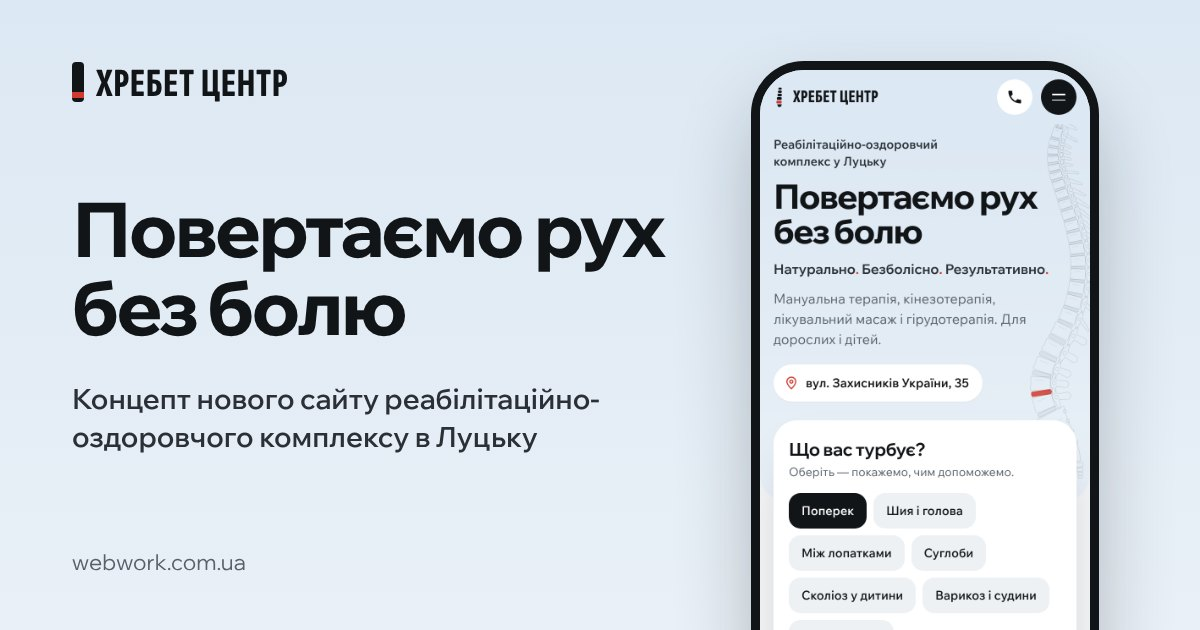
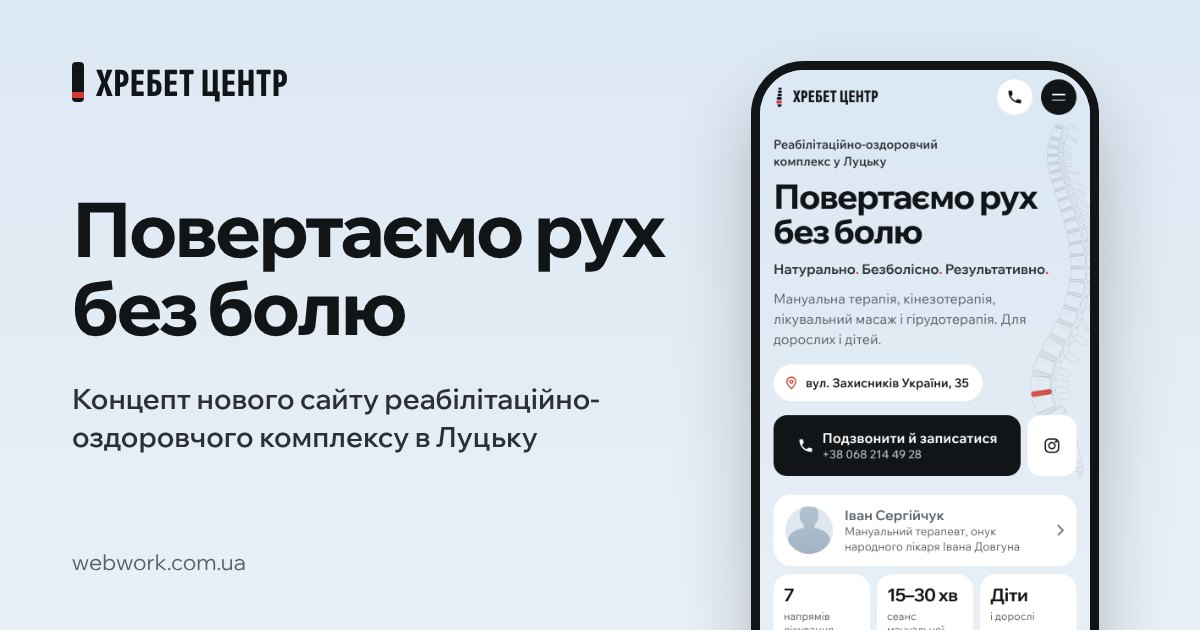
Хребет Центр concept: lighter hero, contraindications as pop-up sheets
Removes the 'Що вас турбує?' widget (call + Instagram buttons in the hero
instead); contraindications and urgent signs now open as sheets on tap.

Claude-Session: https://claude.ai/code/session_01P6YqCN5K12vF97Sc8Z6y1j

Changed region(s): [[0.6167, 0.6333, 0.8942, 1.0]]

diff --git a/concept-hrebet-center/index.html b/concept-hrebet-center/index.html
@@ -119,7 +119,7 @@ h3{font-weight:650}
 .mmenu .mmenu-tel{border:0;padding-top:4px;font-size:22px}
 
 /* hero */
-.hero{position:relative;overflow:hidden;background:linear-gradient(180deg,var(--sky) 0,var(--sky-2) 100%);padding:14px 0 118px;border-radius:0 0 32px 32px}
+.hero{position:relative;overflow:hidden;background:linear-gradient(180deg,var(--sky) 0,var(--sky-2) 100%);padding:14px 0 22px;border-radius:0 0 32px 32px}
 .hero-spine{position:absolute;right:-18px;top:-8px;height:430px;pointer-events:none}
 .hero-spine .spine{height:100%;width:auto;display:block}
 .hero-spine .spine :is(.body,.arch,.tp){fill:none;stroke:rgba(18,21,24,.13);stroke-width:1.1}
@@ -163,7 +163,10 @@ h3{font-weight:650}
 .alt-link{display:block;text-align:center;margin-top:2px;padding:14px 0;font:600 14.5px/1 var(--text);color:var(--ink-2)}
 
 /* doctor strip + facts */
-.after{margin-top:16px}
+.after{margin-top:22px}
+.hero-cta{display:flex;gap:8px;margin-top:16px}
+.hero-cta .call{flex:1;margin:0}
+.igbtn{flex:none;display:grid;place-items:center;width:58px;border-radius:16px;background:#fff;color:var(--ink);text-decoration:none}
 .docstrip{display:flex;align-items:center;gap:14px;padding:14px;border-radius:20px;background:var(--card);text-decoration:none}
 .ava{flex:none;width:56px;height:56px;border-radius:50%;overflow:hidden}
 .portrait-svg{width:100%;height:100%;display:block;--ph-bg:#dfe7ef;--ph-a:#b4c3d1;--ph-b:#a2b4c5}
@@ -246,6 +249,29 @@ h3{font-weight:650}
 .box.urgent li{border-top-color:rgba(143,32,24,.12)}
 .box .foot{margin:0;padding:12px 0 12px;font-size:13.5px;color:var(--muted);border-top:1px solid var(--line)}
 
+.opener{display:flex;align-items:center;gap:14px;width:100%;text-align:left;border:0;cursor:pointer;background:var(--card);border-radius:var(--r);padding:16px;font:inherit;color:var(--ink);transition:transform .15s}
+.opener:active{transform:scale(.98)}
+.o-ic{flex:none;display:grid;place-items:center;width:44px;height:44px;border-radius:14px;background:var(--chip);color:var(--ink-2)}
+.o-ic .si{width:20px;height:20px}
+.o-tx b{display:block;font:650 16px/1.3 var(--disp)}
+.o-tx span{display:block;font-size:13.5px;color:var(--muted);margin-top:2px}
+.o-go{margin-left:auto;flex:none;display:grid;place-items:center;width:34px;height:34px;border-radius:50%;background:var(--chip)}
+.o-go .si{width:18px;height:18px}
+.opener.red .o-ic{background:var(--red-soft);color:var(--red)}
+.sheet{border:0;padding:0;margin:auto auto 0;width:100%;max-width:560px;max-height:86vh;border-radius:26px 26px 0 0;background:var(--card);color:var(--ink);box-shadow:0 -20px 60px rgba(18,21,24,.25)}
+.sheet[open]{animation:up .28s cubic-bezier(.2,.8,.2,1)}
+.sheet::backdrop{background:rgba(18,21,24,.45);backdrop-filter:blur(2px)}
+@keyframes up{from{transform:translateY(40px);opacity:0}to{transform:none;opacity:1}}
+.sh-head{position:sticky;top:0;display:flex;align-items:center;gap:12px;padding:20px 18px 14px;background:var(--card)}
+.sh-head h3{font-size:18px;line-height:1.25;flex:1}
+.sh-close{flex:none;display:grid;place-items:center;width:40px;height:40px;border-radius:50%;border:0;background:var(--chip);cursor:pointer}
+.sh-close .si{width:18px;height:18px}
+.sh-list{list-style:none;margin:0;padding:0 18px;display:grid;gap:8px}
+.sh-list li{padding:13px 14px;border-radius:14px;background:var(--chip);font-size:15.5px;line-height:1.35}
+.sheet.red .o-ic{background:var(--red-soft);color:var(--red)}
+.sheet.red .sh-list li{background:var(--red-soft);color:var(--red-ink)}
+.sh-foot{margin:14px 18px 22px;font-size:14px;color:var(--muted)}
+.sheet .call{margin:16px 18px calc(18px + env(safe-area-inset-bottom))}
 .tip{background:var(--card);border-radius:var(--r);padding:16px 18px}
 .tip h3{font-size:16.5px;margin-bottom:6px}
 .tip p{margin:0;font-size:15px;line-height:1.5;color:var(--ink-2)}
@@ -298,6 +324,7 @@ footer .wrap{display:flex;flex-direction:column;align-items:flex-start;gap:10px}
   .chip{padding:11px 12px;font-size:14px}
 }
 /* ---------- desktop ---------- */
+@media (min-width:700px){.sheet{margin:auto;border-radius:26px}}
 @media (min-width:960px){
   body{font-size:17px}
   .wrap{padding:0 40px}
@@ -307,17 +334,16 @@ footer .wrap{display:flex;flex-direction:column;align-items:flex-start;gap:10px}
   .nav{display:flex;gap:22px;margin-left:auto;font:550 15px/1 var(--text);color:var(--ink-2)}
   .nav a{text-decoration:none}
   .top .tel{display:block;font:650 16px/1 var(--text);text-decoration:none}
-  .hero{padding:44px 0 230px;border-radius:0 0 48px 48px}
+  .hero{padding:44px 0 56px;border-radius:0 0 48px 48px}
   .hero-spine{height:640px;right:auto;left:44%;top:-14px}
   .hero .wrap>div{max-width:520px}
   .kind{max-width:none;font-size:16px}
   .hero h1{font-size:68px;max-width:560px}
   .slogan{font-size:20px;margin-top:20px}
   .sub{font-size:18.5px;margin:14px 0 24px}
-  .triage{margin-top:-600px}
-  .triage .wrap{display:grid;grid-template-columns:1fr 520px;gap:60px;align-items:end}
-  .tw{grid-column:2;grid-row:1;padding:28px 26px 24px}
-  .after{grid-column:1;grid-row:1;margin:0;max-width:520px}
+  .hero .wrap{display:grid;grid-template-columns:1fr 460px;gap:60px;align-items:end}
+  .after{margin:0}
+  .hero-cta{max-width:440px}
   .trust b{font-size:28px}
   .secnav{margin-top:40px}
   .secnav .wrap{justify-content:center}
@@ -388,115 +414,12 @@ footer .wrap{display:flex;flex-direction:column;align-items:flex-start;gap:10px}
       <a class="addr" href="https://www.google.com/maps/search/?api=1&query=%D0%9B%D1%83%D1%86%D1%8C%D0%BA%2C+%D0%B2%D1%83%D0%BB%D0%B8%D1%86%D1%8F+%D0%97%D0%B0%D1%85%D0%B8%D1%81%D0%BD%D0%B8%D0%BA%D1%96%D0%B2+%D0%A3%D0%BA%D1%80%D0%B0%D1%97%D0%BD%D0%B8%2C+35" target="_blank" rel="noopener"><svg class="si" viewBox="0 0 24 24" aria-hidden="true" fill="none" stroke="currentColor" stroke-width="1.8" stroke-linecap="round" stroke-linejoin="round">
 <path d="M12 21s7-6.2 7-11.2A7 7 0 0 0 5 9.8C5 14.8 12 21 12 21z"/><circle cx="12" cy="9.8" r="2.4"/>
 </svg>вул. Захисників України, 35</a>
-    </div>
-  </div>
-</section>
-
-<section class="triage" aria-label="Що вас турбує">
-  <div class="wrap">
-    <div class="tw">
-      <h2>Що вас турбує?</h2>
-      <p class="hint">Оберіть — покажемо, чим допоможемо.</p>
-      <div class="chips" role="tablist" aria-label="Що турбує">
-<button type="button" class="chip" role="tab" id="tab-poperek" aria-controls="pan-poperek" aria-selected="true">Поперек</button><button type="button" class="chip" role="tab" id="tab-shyia" aria-controls="pan-shyia" aria-selected="false">Шия і голова</button><button type="button" class="chip" role="tab" id="tab-lopatky" aria-controls="pan-lopatky" aria-selected="false">Між лопатками</button><button type="button" class="chip" role="tab" id="tab-suhloby" aria-controls="pan-suhloby" aria-selected="false">Суглоби</button><button type="button" class="chip" role="tab" id="tab-skolioz" aria-controls="pan-skolioz" aria-selected="false">Сколіоз у дитини</button><button type="button" class="chip" role="tab" id="tab-varykoz" aria-controls="pan-varykoz" aria-selected="false">Варикоз і судини</button><button type="button" class="chip" role="tab" id="tab-travma" aria-controls="pan-travma" aria-selected="false">Після травми</button>      </div>
-      <div class="panel" role="tabpanel" id="pan-poperek" aria-labelledby="tab-poperek">
-        <p class="lead">Біль після сидіння, «прострел» при нахилі, грижі й протрузії, біль, що віддає в ногу.</p>
-        <p class="helps-t">Що допомагає</p>
-        <ul class="mlist"><li><svg class="si" viewBox="0 0 24 24" aria-hidden="true" fill="none" stroke="currentColor" stroke-width="1.8" stroke-linecap="round" stroke-linejoin="round">
-<path d="M5 12.5l4.2 4.2L19 7"/>
-</svg><div><b>Мануальна терапія</b><span>знімає м'язовий спазм і повертає рухливість хребцям</span></div></li><li><svg class="si" viewBox="0 0 24 24" aria-hidden="true" fill="none" stroke="currentColor" stroke-width="1.8" stroke-linecap="round" stroke-linejoin="round">
-<path d="M5 12.5l4.2 4.2L19 7"/>
-</svg><div><b>Кінезотерапія і ЛФК</b><span>зміцнюють м'язовий корсет, щоб біль не повертався</span></div></li><li><svg class="si" viewBox="0 0 24 24" aria-hidden="true" fill="none" stroke="currentColor" stroke-width="1.8" stroke-linecap="round" stroke-linejoin="round">
-<path d="M5 12.5l4.2 4.2L19 7"/>
-</svg><div><b>Лікувальний масаж</b><span>розслабляє перенапружені м'язи попереку</span></div></li></ul>
-        <p class="note warn"><svg class="si" viewBox="0 0 24 24" aria-hidden="true" fill="none" stroke="currentColor" stroke-width="1.8" stroke-linecap="round" stroke-linejoin="round">
-<path d="M12 3.5l9 16H3z"/><path d="M12 10v4.2M12 17.2v.3"/>
-</svg><span>Біль віддає в ногу, німіє чи слабшає нога? Не відкладайте візит: на ранньому етапі лікування дає кращий результат.</span></p>
+      <div class="hero-cta">
+        <a class="call" href="tel:+380682144928"><svg class="ic" viewBox="0 0 24 24" aria-hidden="true"><path fill="currentColor" d="M6.6 10.8a15.1 15.1 0 0 0 6.6 6.6l2.2-2.2c.3-.3.7-.4 1-.2 1.1.4 2.3.6 3.6.6.6 0 1 .4 1 1V20c0 .6-.4 1-1 1A17 17 0 0 1 3 4c0-.6.4-1 1-1h3.5c.6 0 1 .4 1 1 0 1.3.2 2.5.6 3.6.1.3 0 .7-.2 1z"/></svg><span>Подзвонити й записатися<small>+38 068 214 49 28</small></span></a>
+        <a class="igbtn" href="https://www.instagram.com/khrebet_center_lutsk/" target="_blank" rel="noopener" aria-label="Написати в Instagram"><svg class="si" viewBox="0 0 24 24" aria-hidden="true" fill="none" stroke="currentColor" stroke-width="1.8" stroke-linecap="round" stroke-linejoin="round">
+<rect x="3.5" y="3.5" width="17" height="17" rx="5"/><circle cx="12" cy="12" r="4"/><circle cx="17.2" cy="6.8" r=".6" fill="currentColor"/>
+</svg></a>
       </div>
-      <div class="panel" role="tabpanel" id="pan-shyia" aria-labelledby="tab-shyia" hidden>
-        <p class="lead">Головний біль, скутість шиї, біль у потилиці. Часто причина в м'язах шиї, які тиснуть на нерви.</p>
-        <p class="helps-t">Що допомагає</p>
-        <ul class="mlist"><li><svg class="si" viewBox="0 0 24 24" aria-hidden="true" fill="none" stroke="currentColor" stroke-width="1.8" stroke-linecap="round" stroke-linejoin="round">
-<path d="M5 12.5l4.2 4.2L19 7"/>
-</svg><div><b>Мануальна терапія</b><span>пропрацьовує напружені м'язи і відновлює поставу</span></div></li><li><svg class="si" viewBox="0 0 24 24" aria-hidden="true" fill="none" stroke="currentColor" stroke-width="1.8" stroke-linecap="round" stroke-linejoin="round">
-<path d="M5 12.5l4.2 4.2L19 7"/>
-</svg><div><b>Масаж</b><span>знімає напругу шиї та плечового пояса</span></div></li><li><svg class="si" viewBox="0 0 24 24" aria-hidden="true" fill="none" stroke="currentColor" stroke-width="1.8" stroke-linecap="round" stroke-linejoin="round">
-<path d="M5 12.5l4.2 4.2L19 7"/>
-</svg><div><b>Вправи на декомпресійних тренажерах</b><span>м'яко витягують хребет під наглядом лікаря</span></div></li></ul>
-        <p class="note"><svg class="si" viewBox="0 0 24 24" aria-hidden="true" fill="none" stroke="currentColor" stroke-width="1.8" stroke-linecap="round" stroke-linejoin="round">
-<path d="M5 12.5l4.2 4.2L19 7"/>
-</svg><span>Для шийного відділу в центрі є окрема корекційна методика.</span></p>
-      </div>
-      <div class="panel" role="tabpanel" id="pan-lopatky" aria-labelledby="tab-lopatky" hidden>
-        <p class="lead">Стріляючий біль між ребрами, що посилюється при русі, скутість у грудному відділі.</p>
-        <p class="helps-t">Що допомагає</p>
-        <ul class="mlist"><li><svg class="si" viewBox="0 0 24 24" aria-hidden="true" fill="none" stroke="currentColor" stroke-width="1.8" stroke-linecap="round" stroke-linejoin="round">
-<path d="M5 12.5l4.2 4.2L19 7"/>
-</svg><div><b>Мануальна терапія</b><span>знімає спазм м'язів грудного відділу</span></div></li><li><svg class="si" viewBox="0 0 24 24" aria-hidden="true" fill="none" stroke="currentColor" stroke-width="1.8" stroke-linecap="round" stroke-linejoin="round">
-<path d="M5 12.5l4.2 4.2L19 7"/>
-</svg><div><b>Масаж</b><span>розслабляє міжреберні м'язи і спину</span></div></li><li><svg class="si" viewBox="0 0 24 24" aria-hidden="true" fill="none" stroke="currentColor" stroke-width="1.8" stroke-linecap="round" stroke-linejoin="round">
-<path d="M5 12.5l4.2 4.2L19 7"/>
-</svg><div><b>ЛФК і кінезотерапія</b><span>програма вправ, щоб напади не повторювалися</span></div></li></ul>
-        <p class="note warn"><svg class="si" viewBox="0 0 24 24" aria-hidden="true" fill="none" stroke="currentColor" stroke-width="1.8" stroke-linecap="round" stroke-linejoin="round">
-<path d="M12 3.5l9 16H3z"/><path d="M12 10v4.2M12 17.2v.3"/>
-</svg><span>Міжреберна невралгія за характером відрізняється від болю в серці. Якщо є сумнів, спершу перевірте серце.</span></p>
-      </div>
-      <div class="panel" role="tabpanel" id="pan-suhloby" aria-labelledby="tab-suhloby" hidden>
-        <p class="lead">Артроз, артрит, вивихи, зокрема плеча, відновлення кульшових суглобів.</p>
-        <p class="helps-t">Що допомагає</p>
-        <ul class="mlist"><li><svg class="si" viewBox="0 0 24 24" aria-hidden="true" fill="none" stroke="currentColor" stroke-width="1.8" stroke-linecap="round" stroke-linejoin="round">
-<path d="M5 12.5l4.2 4.2L19 7"/>
-</svg><div><b>Кінезотерапія</b><span>вчить м'язи тримати суглоб і знімати з нього навантаження</span></div></li><li><svg class="si" viewBox="0 0 24 24" aria-hidden="true" fill="none" stroke="currentColor" stroke-width="1.8" stroke-linecap="round" stroke-linejoin="round">
-<path d="M5 12.5l4.2 4.2L19 7"/>
-</svg><div><b>Мануальна терапія суглобів</b><span>повертає рухливість</span></div></li><li><svg class="si" viewBox="0 0 24 24" aria-hidden="true" fill="none" stroke="currentColor" stroke-width="1.8" stroke-linecap="round" stroke-linejoin="round">
-<path d="M5 12.5l4.2 4.2L19 7"/>
-</svg><div><b>Гірудотерапія</b><span>п'явки покращують кровообіг і зменшують набряк</span></div></li></ul>
-        <p class="note"><svg class="si" viewBox="0 0 24 24" aria-hidden="true" fill="none" stroke="currentColor" stroke-width="1.8" stroke-linecap="round" stroke-linejoin="round">
-<path d="M5 12.5l4.2 4.2L19 7"/>
-</svg><span>Ранкова скутість пальців, набряк чи теплі на дотик суглоби бувають першими ознаками артриту.</span></p>
-      </div>
-      <div class="panel" role="tabpanel" id="pan-skolioz" aria-labelledby="tab-skolioz" hidden>
-        <p class="lead">Сколіоз на початку не болить, тому його легко пропустити. Найчастіше він трапляється в дошкільному і шкільному віці.</p>
-        <p class="helps-t">Що допомагає</p>
-        <ul class="mlist"><li><svg class="si" viewBox="0 0 24 24" aria-hidden="true" fill="none" stroke="currentColor" stroke-width="1.8" stroke-linecap="round" stroke-linejoin="round">
-<path d="M5 12.5l4.2 4.2L19 7"/>
-</svg><div><b>Методика Сергійчука</b><span>корекційні вправи: близько 7 хвилин щоранку</span></div></li><li><svg class="si" viewBox="0 0 24 24" aria-hidden="true" fill="none" stroke="currentColor" stroke-width="1.8" stroke-linecap="round" stroke-linejoin="round">
-<path d="M5 12.5l4.2 4.2L19 7"/>
-</svg><div><b>Масаж при сколіозі</b><span>розслабляє м'язи і вирівнює навантаження на хребет</span></div></li><li><svg class="si" viewBox="0 0 24 24" aria-hidden="true" fill="none" stroke="currentColor" stroke-width="1.8" stroke-linecap="round" stroke-linejoin="round">
-<path d="M5 12.5l4.2 4.2L19 7"/>
-</svg><div><b>ЛФК</b><span>вчить правильно сидіти, стояти й ходити</span></div></li></ul>
-        <p class="note"><svg class="si" viewBox="0 0 24 24" aria-hidden="true" fill="none" stroke="currentColor" stroke-width="1.8" stroke-linecap="round" stroke-linejoin="round">
-<path d="M5 12.5l4.2 4.2L19 7"/>
-</svg><span>Перевірте вдома: поставте дитину рівно. Плечі, ключиці й таз мають бути на одному рівні.</span></p>
-      </div>
-      <div class="panel" role="tabpanel" id="pan-varykoz" aria-labelledby="tab-varykoz" hidden>
-        <p class="lead">Важкість і набряки ніг, розширені вени, судинні проблеми.</p>
-        <p class="helps-t">Що допомагає</p>
-        <ul class="mlist"><li><svg class="si" viewBox="0 0 24 24" aria-hidden="true" fill="none" stroke="currentColor" stroke-width="1.8" stroke-linecap="round" stroke-linejoin="round">
-<path d="M5 12.5l4.2 4.2L19 7"/>
-</svg><div><b>Гірудотерапія</b><span>гірудин із слини п'явки знижує в'язкість крові</span></div></li><li><svg class="si" viewBox="0 0 24 24" aria-hidden="true" fill="none" stroke="currentColor" stroke-width="1.8" stroke-linecap="round" stroke-linejoin="round">
-<path d="M5 12.5l4.2 4.2L19 7"/>
-</svg><div><b>Ефект</b><span>менше набряків, болю і запалення в стінках вен</span></div></li></ul>
-        <p class="note"><svg class="si" viewBox="0 0 24 24" aria-hidden="true" fill="none" stroke="currentColor" stroke-width="1.8" stroke-linecap="round" stroke-linejoin="round">
-<path d="M5 12.5l4.2 4.2L19 7"/>
-</svg><span>Медичні п'явки вирощують на біофабриках і використовують один раз, після процедури їх утилізують.</span></p>
-      </div>
-      <div class="panel" role="tabpanel" id="pan-travma" aria-labelledby="tab-travma" hidden>
-        <p class="lead">Відновлення після травм, операцій і поранень, коли рух дається важко.</p>
-        <p class="helps-t">Що допомагає</p>
-        <ul class="mlist"><li><svg class="si" viewBox="0 0 24 24" aria-hidden="true" fill="none" stroke="currentColor" stroke-width="1.8" stroke-linecap="round" stroke-linejoin="round">
-<path d="M5 12.5l4.2 4.2L19 7"/>
-</svg><div><b>Фізична терапія</b><span>індивідуальна програма з фізичним терапевтом</span></div></li><li><svg class="si" viewBox="0 0 24 24" aria-hidden="true" fill="none" stroke="currentColor" stroke-width="1.8" stroke-linecap="round" stroke-linejoin="round">
-<path d="M5 12.5l4.2 4.2L19 7"/>
-</svg><div><b>ЛФК і кінезотерапія</b><span>поступово повертають силу і рухливість</span></div></li><li><svg class="si" viewBox="0 0 24 24" aria-hidden="true" fill="none" stroke="currentColor" stroke-width="1.8" stroke-linecap="round" stroke-linejoin="round">
-<path d="M5 12.5l4.2 4.2L19 7"/>
-</svg><div><b>Масаж</b><span>покращує кровообіг і тонус м'язів</span></div></li></ul>
-        <p class="note"><svg class="si" viewBox="0 0 24 24" aria-hidden="true" fill="none" stroke="currentColor" stroke-width="1.8" stroke-linecap="round" stroke-linejoin="round">
-<path d="M5 12.5l4.2 4.2L19 7"/>
-</svg><span>Програму складає фізичний терапевт під ваш стан, тому результат будується крок за кроком.</span></p>
-      </div>
-      <a class="call" href="tel:+380682144928"><svg class="ic" viewBox="0 0 24 24" aria-hidden="true"><path fill="currentColor" d="M6.6 10.8a15.1 15.1 0 0 0 6.6 6.6l2.2-2.2c.3-.3.7-.4 1-.2 1.1.4 2.3.6 3.6.6.6 0 1 .4 1 1V20c0 .6-.4 1-1 1A17 17 0 0 1 3 4c0-.6.4-1 1-1h3.5c.6 0 1 .4 1 1 0 1.3.2 2.5.6 3.6.1.3 0 .7-.2 1z"/></svg><span>Подзвонити й записатися<small>+38 068 214 49 28</small></span></a>
-      <a class="alt-link" href="https://www.instagram.com/khrebet_center_lutsk/" target="_blank" rel="noopener">або напишіть в Instagram</a>
     </div>
     <div class="after">
       <a class="docstrip" href="#likar">
@@ -521,6 +444,8 @@ footer .wrap{display:flex;flex-direction:column;align-items:flex-start;gap:10px}
     </div>
   </div>
 </section>
+
+
 
 <nav class="secnav" aria-label="Розділи сторінки"><div class="wrap">
 <a href="#napryamy">Напрями</a><a href="#problemy">З чим звертаються</a><a href="#likar">Лікар</a><a href="#vizyt">Перший візит</a><a href="#protypokazannya">Протипоказання</a><a href="#porady">Поради</a><a href="#pyavky">П'явки</a><a href="#pytannya">Питання</a><a href="#kontakty">Контакти</a></div></nav>
@@ -649,40 +574,46 @@ footer .wrap{display:flex;flex-direction:column;align-items:flex-start;gap:10px}
   <div class="wrap">
     <div class="sec-head"><h2>Протипоказання</h2><p>Мануальна терапія підходить не всім. Остаточне рішення лікар ухвалює на консультації.</p></div>
     <div class="cards c2">
-      <div class="box minus"><h3>Мануальна терапія протипоказана, якщо є</h3>
-        <ul><li><svg class="si" viewBox="0 0 24 24" aria-hidden="true" fill="none" stroke="currentColor" stroke-width="1.8" stroke-linecap="round" stroke-linejoin="round">
-<path d="M7 7l10 10M17 7L7 17"/>
-</svg><span>Свіжі переломи хребта</span></li><li><svg class="si" viewBox="0 0 24 24" aria-hidden="true" fill="none" stroke="currentColor" stroke-width="1.8" stroke-linecap="round" stroke-linejoin="round">
-<path d="M7 7l10 10M17 7L7 17"/>
-</svg><span>Ревматизм</span></li><li><svg class="si" viewBox="0 0 24 24" aria-hidden="true" fill="none" stroke="currentColor" stroke-width="1.8" stroke-linecap="round" stroke-linejoin="round">
-<path d="M7 7l10 10M17 7L7 17"/>
-</svg><span>Нещодавно перенесений інсульт чи інфаркт</span></li><li><svg class="si" viewBox="0 0 24 24" aria-hidden="true" fill="none" stroke="currentColor" stroke-width="1.8" stroke-linecap="round" stroke-linejoin="round">
-<path d="M7 7l10 10M17 7L7 17"/>
-</svg><span>Онкологічні захворювання</span></li><li><svg class="si" viewBox="0 0 24 24" aria-hidden="true" fill="none" stroke="currentColor" stroke-width="1.8" stroke-linecap="round" stroke-linejoin="round">
-<path d="M7 7l10 10M17 7L7 17"/>
-</svg><span>Хвороба Бехтерєва</span></li><li><svg class="si" viewBox="0 0 24 24" aria-hidden="true" fill="none" stroke="currentColor" stroke-width="1.8" stroke-linecap="round" stroke-linejoin="round">
-<path d="M7 7l10 10M17 7L7 17"/>
-</svg><span>Вагітність</span></li><li><svg class="si" viewBox="0 0 24 24" aria-hidden="true" fill="none" stroke="currentColor" stroke-width="1.8" stroke-linecap="round" stroke-linejoin="round">
-<path d="M7 7l10 10M17 7L7 17"/>
-</svg><span>Гіпертонія</span></li><li><svg class="si" viewBox="0 0 24 24" aria-hidden="true" fill="none" stroke="currentColor" stroke-width="1.8" stroke-linecap="round" stroke-linejoin="round">
-<path d="M7 7l10 10M17 7L7 17"/>
-</svg><span>Гострі захворювання шлунка і кишківника</span></li></ul>
-        <p class="foot">Скажіть лікарю про свої діагнози й ліки ще до сеансу.</p></div>
-      <div class="box urgent"><h3>Не чекайте, звертайтеся до лікаря, якщо</h3>
-        <ul><li><svg class="si" viewBox="0 0 24 24" aria-hidden="true" fill="none" stroke="currentColor" stroke-width="1.8" stroke-linecap="round" stroke-linejoin="round">
+      <button type="button" class="opener" data-open="dlg-contra">
+        <span class="o-ic"><svg class="si" viewBox="0 0 24 24" aria-hidden="true" fill="none" stroke="currentColor" stroke-width="1.8" stroke-linecap="round" stroke-linejoin="round">
+<circle cx="12" cy="12" r="8.5"/><path d="M6 6l12 12"/>
+</svg></span>
+        <span class="o-tx"><b>Коли мануальна терапія протипоказана</b><span>8 станів, про які варто знати</span></span>
+        <span class="o-go"><svg class="si" viewBox="0 0 24 24" aria-hidden="true" fill="none" stroke="currentColor" stroke-width="1.8" stroke-linecap="round" stroke-linejoin="round">
+<path d="M12 6v12M6 12h12"/>
+</svg></span>
+      </button>
+      <button type="button" class="opener red" data-open="dlg-urgent">
+        <span class="o-ic"><svg class="si" viewBox="0 0 24 24" aria-hidden="true" fill="none" stroke="currentColor" stroke-width="1.8" stroke-linecap="round" stroke-linejoin="round">
 <path d="M12 3.5l9 16H3z"/><path d="M12 10v4.2M12 17.2v.3"/>
-</svg><span>Біль дуже сильний</span></li><li><svg class="si" viewBox="0 0 24 24" aria-hidden="true" fill="none" stroke="currentColor" stroke-width="1.8" stroke-linecap="round" stroke-linejoin="round">
-<path d="M12 3.5l9 16H3z"/><path d="M12 10v4.2M12 17.2v.3"/>
-</svg><span>Порушилася чутливість, німіє нога</span></li><li><svg class="si" viewBox="0 0 24 24" aria-hidden="true" fill="none" stroke="currentColor" stroke-width="1.8" stroke-linecap="round" stroke-linejoin="round">
-<path d="M12 3.5l9 16H3z"/><path d="M12 10v4.2M12 17.2v.3"/>
-</svg><span>З'явилася слабкість у нозі</span></li><li><svg class="si" viewBox="0 0 24 24" aria-hidden="true" fill="none" stroke="currentColor" stroke-width="1.8" stroke-linecap="round" stroke-linejoin="round">
-<path d="M12 3.5l9 16H3z"/><path d="M12 10v4.2M12 17.2v.3"/>
-</svg><span>Біль не минає 1–2 тижні</span></li><li><svg class="si" viewBox="0 0 24 24" aria-hidden="true" fill="none" stroke="currentColor" stroke-width="1.8" stroke-linecap="round" stroke-linejoin="round">
-<path d="M12 3.5l9 16H3z"/><path d="M12 10v4.2M12 17.2v.3"/>
-</svg><span>Біль у грудях: спершу виключіть серце</span></li></ul></div>
+</svg></span>
+        <span class="o-tx"><b>Коли не варто чекати</b><span>Ознаки, з якими до лікаря — одразу</span></span>
+        <span class="o-go"><svg class="si" viewBox="0 0 24 24" aria-hidden="true" fill="none" stroke="currentColor" stroke-width="1.8" stroke-linecap="round" stroke-linejoin="round">
+<path d="M12 6v12M6 12h12"/>
+</svg></span>
+      </button>
     </div>
   </div>
 </section>
+
+<dialog class="sheet" id="dlg-contra" aria-labelledby="dc-t">
+  <div class="sh-head"><span class="o-ic"><svg class="si" viewBox="0 0 24 24" aria-hidden="true" fill="none" stroke="currentColor" stroke-width="1.8" stroke-linecap="round" stroke-linejoin="round">
+<circle cx="12" cy="12" r="8.5"/><path d="M6 6l12 12"/>
+</svg></span><h3 id="dc-t">Мануальна терапія протипоказана, якщо є</h3><button type="button" class="sh-close" aria-label="Закрити"><svg class="si" viewBox="0 0 24 24" aria-hidden="true" fill="none" stroke="currentColor" stroke-width="1.8" stroke-linecap="round" stroke-linejoin="round">
+<path d="M7 7l10 10M17 7L7 17"/>
+</svg></button></div>
+  <ul class="sh-list"><li>Свіжі переломи хребта</li><li>Ревматизм</li><li>Нещодавно перенесений інсульт чи інфаркт</li><li>Онкологічні захворювання</li><li>Хвороба Бехтерєва</li><li>Вагітність</li><li>Гіпертонія</li><li>Гострі захворювання шлунка і кишківника</li></ul>
+  <p class="sh-foot">Скажіть лікарю про свої діагнози й ліки ще до сеансу.</p>
+</dialog>
+<dialog class="sheet red" id="dlg-urgent" aria-labelledby="du-t">
+  <div class="sh-head"><span class="o-ic"><svg class="si" viewBox="0 0 24 24" aria-hidden="true" fill="none" stroke="currentColor" stroke-width="1.8" stroke-linecap="round" stroke-linejoin="round">
+<path d="M12 3.5l9 16H3z"/><path d="M12 10v4.2M12 17.2v.3"/>
+</svg></span><h3 id="du-t">Не чекайте, звертайтеся до лікаря, якщо</h3><button type="button" class="sh-close" aria-label="Закрити"><svg class="si" viewBox="0 0 24 24" aria-hidden="true" fill="none" stroke="currentColor" stroke-width="1.8" stroke-linecap="round" stroke-linejoin="round">
+<path d="M7 7l10 10M17 7L7 17"/>
+</svg></button></div>
+  <ul class="sh-list"><li>Біль дуже сильний</li><li>Порушилася чутливість, німіє нога</li><li>З'явилася слабкість у нозі</li><li>Біль не минає 1–2 тижні</li><li>Біль у грудях: спершу виключіть серце</li></ul>
+  <a class="call" href="tel:+380682144928"><svg class="ic" viewBox="0 0 24 24" aria-hidden="true"><path fill="currentColor" d="M6.6 10.8a15.1 15.1 0 0 0 6.6 6.6l2.2-2.2c.3-.3.7-.4 1-.2 1.1.4 2.3.6 3.6.6.6 0 1 .4 1 1V20c0 .6-.4 1-1 1A17 17 0 0 1 3 4c0-.6.4-1 1-1h3.5c.6 0 1 .4 1 1 0 1.3.2 2.5.6 3.6.1.3 0 .7-.2 1z"/></svg><span>Подзвонити в центр<small>+38 068 214 49 28</small></span></a>
+</dialog>
 
 <section id="porady" class="sec">
   <div class="wrap">
@@ -771,11 +702,12 @@ footer .wrap{display:flex;flex-direction:column;align-items:flex-start;gap:10px}
 
 <script>
 (function(){
-  var tabs=[].slice.call(document.querySelectorAll('.chip[role=tab]'));
-  tabs.forEach(function(t){t.addEventListener('click',function(){
-    tabs.forEach(function(x){var on=x===t;x.setAttribute('aria-selected',on);document.getElementById(x.getAttribute('aria-controls')).hidden=!on;});
-  });});
-  var mbar=document.querySelector('.mbar'),tw=document.querySelector('.tw');
+  document.querySelectorAll('[data-open]').forEach(function(b){b.addEventListener('click',function(){
+    var d=document.getElementById(b.dataset.open);if(d.showModal)d.showModal();else d.setAttribute('open','');});});
+  document.querySelectorAll('dialog.sheet').forEach(function(d){
+    d.querySelector('.sh-close').addEventListener('click',function(){d.close?d.close():d.removeAttribute('open');});
+    d.addEventListener('click',function(e){if(e.target===d)d.close();});});
+  var mbar=document.querySelector('.mbar'),tw=document.querySelector('.hero-cta');
   if('IntersectionObserver' in window&&mbar&&tw){new IntersectionObserver(function(e){mbar.classList.toggle('hide',e[0].isIntersecting);},{threshold:0}).observe(tw);}else if(mbar){mbar.classList.remove('hide');}
   var links=[].slice.call(document.querySelectorAll('.secnav a')),bar=document.querySelector('.secnav .wrap');
   if('IntersectionObserver' in window){
